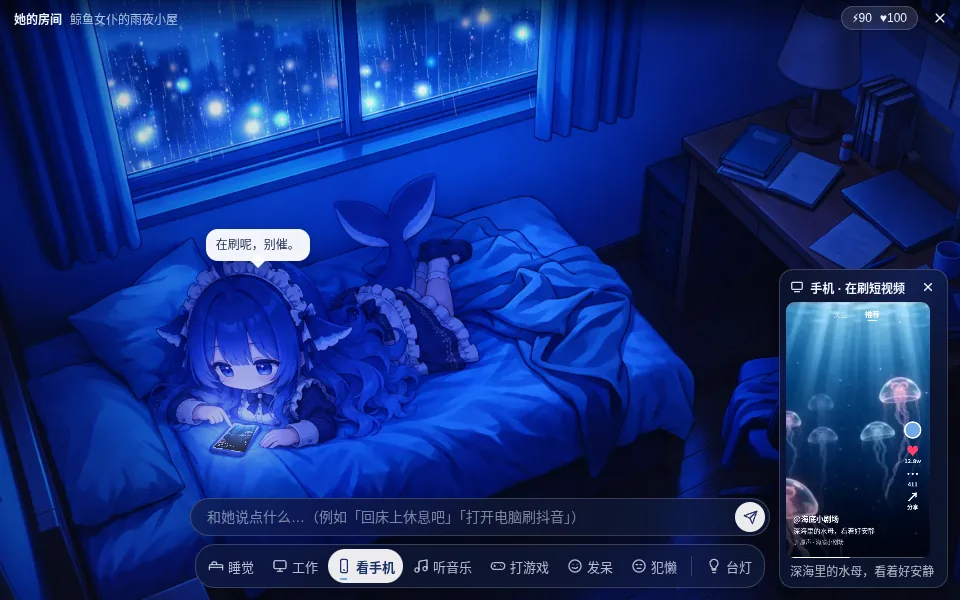
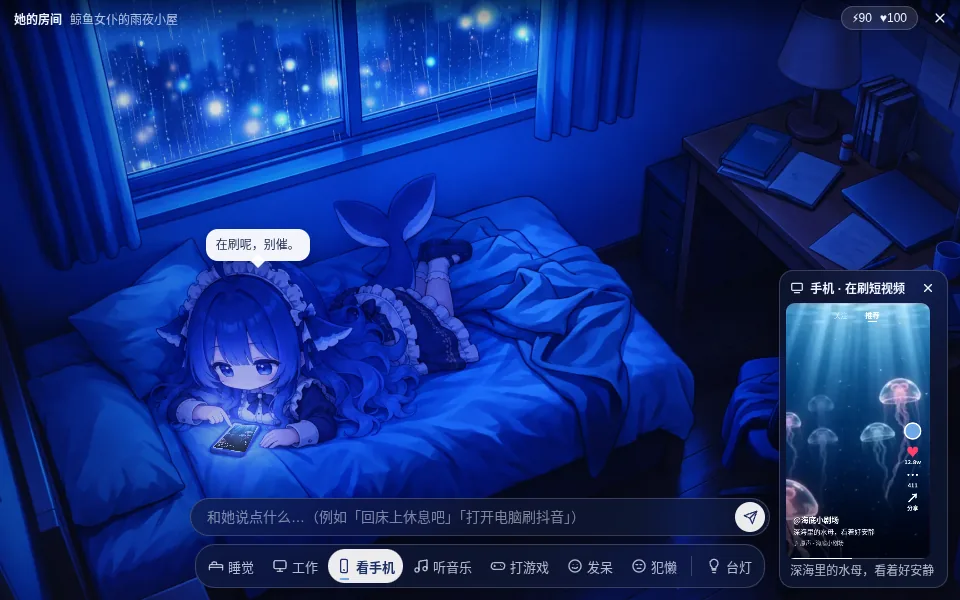
🎨 她的房间：蓝发不被暖光洗紫、打游戏头发重出、床上不留蓝色色块（T-11697）
独立复验发现工作、打游戏、起身开灯后色相超过自查表的 12° 门槛仍标符合；打游戏头发偏直。
warm.py 只保护她身上蓝色的部分，床上状态用人工椭圆 ∩ 变化遮罩，商店物料和一致性表重出。

diff --git a/games/her-room/art/post.py b/games/her-room/art/post.py
@@ -19,6 +19,9 @@ LAMP = (1300, 0, 1920, 700); FAR = (150, 380, 1250, 1080)
 # 每个状态允许变化的范围：床上的状态只改床和她，书桌的状态只改书桌、椅子和她；范围外逐像素取底版
 BED = (60, 230, 1400, 1080); DESK = (1130, 200, 1920, 1080)
 ROI = {'idle': BED, 'idle-lazy': BED, 'phone': BED, 'music': BED, 'sleep': BED, 'work': DESK, 'game': DESK, 'stand': DESK}
+# 暖光时要保护蓝色的范围。床上的状态她躺在蓝床单上，变化遮罩会把床单也算进去（留下蓝色色块），所以用人工标注的椭圆只框头发和身体
+# [(cx, cy, rx, ry)…]，世界坐标；书桌的状态背景不是蓝的，直接用变化遮罩
+HAIR = {'idle': [(800, 630, 200, 330)], 'idle-lazy': [(800, 640, 200, 330)], 'phone': [(470, 650, 170, 130), (720, 720, 230, 110)], 'music': [(560, 500, 210, 220)], 'sleep': [(530, 590, 230, 130)]}
 THRESH = 20; MIN_AREA = 700; GROW = 19; FEATHER = 13
 def raw(n): return f'raw/{n}.png' if os.path.exists(f'raw/{n}.png') else f'raw/{n}.webp'
 def load(n): return cv2.resize(cv2.imread(raw(n), cv2.IMREAD_COLOR), (W, H), interpolation=cv2.INTER_AREA)
@@ -41,6 +44,12 @@ def change_mask(im, base, roi):
     keep[WIN > 0] = 0
     x0, y0, x1, y1 = roi; box = np.zeros_like(keep); box[y0:y1, x0:x1] = 255; keep = cv2.bitwise_and(keep, box)
     return cv2.dilate(keep, cv2.getStructuringElement(cv2.MORPH_ELLIPSE, (GROW, GROW)))
+def subject_mask(state, hard):
+    if state not in HAIR: return cv2.GaussianBlur(hard, (0, 0), FEATHER).astype(np.float32) / 255
+    m = np.zeros((H, W), np.uint8)
+    for cx, cy, rx, ry in HAIR[state]: cv2.ellipse(m, (cx, cy), (rx, ry), 0, 0, 360, 255, -1)
+    # 和变化遮罩取交集：头顶旁边的蓝墙没被她动过，不算她
+    return cv2.GaussianBlur(cv2.bitwise_and(m, cv2.erode(hard, cv2.getStructuringElement(cv2.MORPH_ELLIPSE, (27, 27)))), (0, 0), 7).astype(np.float32) / 255
 def composite(im, base, roi):
     hard = change_mask(im, base, roi)
     a = cv2.GaussianBlur(hard, (0, 0), FEATHER).astype(np.float32)[..., None] / 255
@@ -58,7 +67,8 @@ if __name__ == '__main__':
             if not os.path.exists(raw(n)): print('missing', n); continue
             im = load(n); out, hard = composite(im, base[k], ROI[s]); ref = base[k]
             if k == 'lit':
-                out = warm(out, subject=cv2.GaussianBlur(hard, (0, 0), FEATHER).astype(np.float32) / 255); ref = warmed_base
+                sub = subject_mask(s, hard)
+                out = warm(out, subject=sub); ref = warmed_base
             cv2.imwrite(f'out/{n}.webp', out, [cv2.IMWRITE_WEBP_QUALITY, 88])
             ys, xs = np.where(hard > 0)
             report['mask'][n] = {'percent': round(float((hard > 0).mean() * 100), 1), 'bbox': [int(xs.min()), int(ys.min()), int(xs.max()), int(ys.max())] if len(xs) else None}

diff --git a/games/her-room/art/warm.py b/games/her-room/art/warm.py
@@ -1,13 +1,13 @@
 #!/usr/bin/env python3
 """开灯后整屋变暖：模型只把台灯附近画暖了，床一侧还是蓝月光。这里按到台灯的距离叠一层暖光（所有 lit 图用同一张光照图，所以状态之间一致）。
 是「加光」不是「换色」：蓝通道压一点、红绿按画面明度加上去，蓝头发、蓝床单仍然是蓝的，只是被暖光照着；窗玻璃留冷色，窗外的雨和光斑不受影响。
-post.py 对 lit 状态图、blink.py 对 lit 贴片调用 warm()。参数改这里。
+post.py 对 lit 状态图、blink.py 对 lit 贴片调用 warm()（她的软遮罩 / 1.0）。参数改这里。
 """
 import numpy as np, cv2
 W, H = 1920, 1080
 LAMP = (1566, 170)     # 台灯灯泡（世界坐标）
-REACH = 900.0          # 距离衰减的半径，越大暖光走得越远
-FAR = 0.42             # 房间最远处的受光量（漫反射，不是 0：整屋都变）
+REACH = 1000.0          # 距离衰减的半径，越大暖光走得越远
+FAR = 0.40             # 房间最远处的受光量（漫反射，不是 0：整屋都变）
 NEAR = 1.0             # 灯边的受光量
 GLASS = 0.04           # 窗玻璃的受光量
 PANES = [[[262, 0], [712, 0], [712, 252], [322, 312]], [[742, 0], [1064, 0], [1062, 192], [742, 242]]]
@@ -20,11 +20,12 @@ def light_map():
     g = cv2.GaussianBlur(g, (0, 0), 4).astype(np.float32) / 255
     return k * (1 - g) + GLASS * g
 LIGHT = light_map()
-SUBJECT = 0.5          # 她身上的受光量打折：蓝头发、女仆装要认得出（暖光照着，但不被洗成灰紫）
+SUBJECT = 0.88         # 她身上蓝色的部分（头发、裙子、尾巴）受光量打折，蓝发不被洗成灰紫；皮肤、围裙、遮罩里的桌面不是蓝的，照常受光，不留光环
 def warm(im, subject=None):
     """im: BGR uint8，世界坐标 1920×1080 → 同尺寸 uint8。subject: 她的软遮罩（0–1，HxW）或一个常数（只处理她身上的贴片时用 1）"""
     a = im.astype(np.float32); b, g, r = a[..., 0], a[..., 1], a[..., 2]
-    k = LIGHT if subject is None else LIGHT * (1 - SUBJECT * subject)
+    blue = np.clip((b - np.maximum(g, r)) / np.maximum(b, 1) * 2.0, 0, 1)
+    k = LIGHT if subject is None else LIGHT * (1 - SUBJECT * subject * blue)
     v = 0.6 * a.max(axis=2) + 0.4 * (0.0722 * b + 0.7152 * g + 0.2126 * r)  # 这一点的明度
-    out = np.dstack([b * (1 - 0.30 * k), g + v * 0.10 * k + 2 * k, r + v * 0.62 * k + 10 * k])
+    out = np.dstack([b * (1 - 0.30 * k), g + v * 0.06 * k + 2 * k, r + v * 0.66 * k + 12 * k])
     return np.clip(out, 0, 255).round().astype(np.uint8)

diff --git a/games/her-room/art/sheets.py b/games/her-room/art/sheets.py
@@ -60,3 +60,6 @@ for s in NAMES:
     for k in ('off', 'lit'):
         h, n = hue(O(f'dafeiyu-{s}-{k}').crop(CH[s])); res['hairHue'][f'{s}-{k}'] = {'hue': h, 'deltaFromSheet': round(h - ref, 1), 'pixels': n}
 json.dump(res, open('out/consistency.json', 'w'), indent=1, ensure_ascii=False); print(json.dumps(res['hairHue'], ensure_ascii=False)[:1500]); print('sheet', ref, 'maxStatic', max(max(v.values()) for v in res['staticDiffAfter'].values()))
+
+over = {k: v['deltaFromSheet'] for k, v in res['hairHue'].items() if abs(v['deltaFromSheet']) > 12}
+print('hue over 12°:', over or 'none')

diff --git a/games/her-room/art/CONSISTENCY.md b/games/her-room/art/CONSISTENCY.md
@@ -13,7 +13,7 @@
 | 听音乐 music | 符合：对应设定图闭眼 + 微笑 | 符合 | 符合：围裙、裙边花纹可见 | 符合；另外戴白色大耳机（这个状态的道具） | 符合：卷在身侧 | 符合 |
 | 睡觉 sleep | 符合：对应设定图闭眼 | 符合：散在枕头上 | 符合（大部分在被子里）：露出袖口、领口荷叶边 | 符合：睡觉也戴着 | 符合：从被子边露出 | 符合 |
 | 工作 work | 不适用：按设计背对镜头 | 符合：背影长卷发、呆毛（第 4 轮重出，旧图在 `raw/round2/`） | 符合：背后白围裙大蝴蝶结、深蓝裙 | 符合 | 符合：从椅子边垂下 | 符合 |
-| 打游戏 game | 符合：侧后方能看到半边脸和蓝眼 | 符合：长卷发 | 符合：袖口、围裙蝴蝶结、裙边 | 符合 | 符合：翘起，比工作时活泼 | 符合 |
+| 打游戏 game | 符合：侧后方能看到半边脸和蓝眼 | 符合：长卷发（第 4 轮重出，旧图在 `raw/round2/`） | 符合：袖口、围裙蝴蝶结、裙边 | 符合 | 符合：翘起，比工作时活泼 | 符合 |
 | 起身 stand | 不适用：按设计背对镜头 | 符合：长卷发、呆毛 | 符合：背后蝴蝶结、条纹裙摆、白袜、鞋 | 符合 | 符合：在裙后翘起 | 符合 |
 
 ## 2. 房间固定元素（对照 `preview/layout.jpg`，同一组红色参考线）
@@ -37,44 +37,45 @@
 
 ## 3. 数值
 
-静止区域（窗户 / 左墙 / 书架墙）和同灯光底版的平均像素差（0–255），方案 §11.4 的门槛是 < 4。最大值 1.59。lit 图和同样烘焙过整屋暖光的底版比。
+由 `post.py`、`sheets.py` 算出。静止区域（窗户 / 左墙 / 书架墙）和同灯光底版的平均像素差（0–255），方案 §11.4 的门槛是 < 4。最大值 3.52。lit 图和同样烘焙过整屋暖光的底版比。
 发色：角色框内蓝色且够饱和的像素的色相中位数，设定图 227.3°，门槛是差 ≤ 12°。框里也有蓝色床单，这个数只能发现整体换色，细节以上面的人工检查为准。
 
 | 图 | 合成前 | 合成后 | 色相（和设定图的差） |
 | --- | --- | --- | --- |
 | 发呆 · 关 | 4.28 / 3.18 / 2.58 | 0.0 / 0.0 / 0.0 | 225.9°（-1.4°） |
-| 发呆 · 开 | 6.27 / 2.69 / 4.7 | 0.05 / 0.0 / 0.0 | 238.6°（+11.3°） |
+| 发呆 · 开 | 6.27 / 2.69 / 4.7 | 0.02 / 0.0 / 0.0 | 235.8°（+8.5°） |
 | 犯懒 · 关 | 6.64 / 4.83 / 4.1 | 0.0 / 0.0 / 0.0 | 225.9°（-1.4°） |
-| 犯懒 · 开 | 5.41 / 4.29 / 4.0 | 0.0 / 0.0 / 0.0 | 238.6°（+11.3°） |
+| 犯懒 · 开 | 5.41 / 4.29 / 4.0 | 0.0 / 0.0 / 0.0 | 235.8°（+8.5°） |
 | 看手机 · 关 | 7.49 / 4.61 / 4.36 | 0.0 / 0.0 / 0.0 | 224.5°（-2.8°） |
-| 看手机 · 开 | 6.03 / 4.01 / 3.71 | 0.39 / 0.0 / 0.0 | 234.4°（+7.1°） |
+| 看手机 · 开 | 6.03 / 4.01 / 3.71 | 0.34 / 0.0 / 0.0 | 237.2°（+9.9°） |
 | 听音乐 · 关 | 5.6 / 2.95 / 2.93 | 0.17 / 0.0 / 0.0 | 224.5°（-2.8°） |
-| 听音乐 · 开 | 6.76 / 2.39 / 3.8 | 0.44 / 0.0 / 0.0 | 235.8°（+8.5°） |
+| 听音乐 · 开 | 6.76 / 2.39 / 3.8 | 0.38 / 0.0 / 0.0 | 241.4°（+14.1°） **超门槛** |
 | 睡觉 · 关 | 7.52 / 6.11 / 5.05 | 0.07 / 0.98 / 0.0 | 221.6°（-5.7°） |
-| 睡觉 · 开 | 5.94 / 5.46 / 4.16 | 0.33 / 0.4 / 0.0 | 227.3°（+0.0°） |
+| 睡觉 · 开 | 5.94 / 5.46 / 4.16 | 0.33 / 0.19 / 0.0 | 238.6°（+11.3°） |
 | 工作 · 关 | 7.5 / 5.76 / 5.76 | 0.0 / 0.0 / 0.72 | 230.1°（+2.8°） |
-| 工作 · 开 | 6.22 / 5.23 / 5.35 | 0.0 / 0.0 / 0.92 | 248.5°（+21.2°） |
-| 打游戏 · 关 | 7.56 / 6.68 / 6.39 | 0.0 / 0.0 / 1.59 | 228.7°（+1.4°） |
-| 打游戏 · 开 | 6.57 / 6.09 / 6.71 | 0.0 / 0.0 / 0.93 | 244.2°（+16.9°） |
+| 工作 · 开 | 6.22 / 5.23 / 5.35 | 0.0 / 0.0 / 0.77 | 237.2°（+9.9°） |
+| 打游戏 · 关 | 9.7 / 8.32 / 7.27 | 0.0 / 0.0 / 2.62 | 228.7°（+1.4°） |
+| 打游戏 · 开 | 6.87 / 7.29 / 10.69 | 0.0 / 0.0 / 3.52 | 234.4°（+7.1°） |
 | 起身 · 关 | 4.98 / 4.44 / 4.32 | 0.0 / 0.0 / 0.0 | 228.7°（+1.4°） |
-| 起身 · 开 | 5.91 / 6.22 / 4.73 | 0.0 / 0.0 / 0.0 | 247.1°（+19.8°） |
+| 起身 · 开 | 5.91 / 6.22 / 4.73 | 0.0 / 0.0 / 0.0 | 235.8°（+8.5°） |
 
-台灯关 → 开（台灯区 = 书桌、台灯、书架；床区 = 床和床前地板）。R−B 越大越暖，床区升高就是「整屋变暖」：
+台灯关 → 开（世界坐标：台灯区 x1300–1920, y0–700；床区 x150–1250, y380–1080）。R−B 越大越暖：
 
 | 状态 | 台灯区亮度 | 台灯区暖色 R−B | 床区亮度 | 床区暖色 R−B |
 | --- | --- | --- | --- | --- |
-| 底版 | 45.0 → 98.8 | -70.0 → 117.7 | 75.4 → 86.0 | -143.0 → -55.7 |
-| 发呆 | 45.1 → 98.9 | -70.1 → 117.6 | 74.5 → 84.3 | -126.5 → -50.2 |
-| 犯懒 | 45.1 → 98.7 | -70.1 → 117.3 | 73.9 → 82.3 | -128.4 → -53.1 |
-| 看手机 | 45.1 → 98.9 | -70.1 → 117.4 | 71.2 → 80.5 | -130.6 → -56.7 |
-| 听音乐 | 45.1 → 98.8 | -70.1 → 117.4 | 72.6 → 81.3 | -123.3 → -47.6 |
-| 睡觉 | 45.1 → 99.0 | -70.2 → 117.4 | 76.1 → 83.5 | -149.5 → -86.0 |
-| 工作 | 57.2 → 100.5 | -90.2 → 79.5 | 75.5 → 86.1 | -143.2 → -56.0 |
-| 打游戏 | 59.5 → 102.0 | -95.3 → 76.6 | 75.5 → 86.1 | -143.2 → -56.1 |
-| 起身 | 49.1 → 101.4 | -77.8 → 109.7 | 76.2 → 86.7 | -144.3 → -56.5 |
+| 底版 | 45.0 → 98.4 | -70.0 → 121.0 | 75.4 → 86.6 | -143.0 → -50.0 |
+| 发呆 | 45.1 → 98.9 | -70.1 → 122.0 | 74.5 → 84.9 | -126.5 → -44.1 |
+| 犯懒 | 45.1 → 98.4 | -70.1 → 120.9 | 73.9 → 82.9 | -128.4 → -47.8 |
+| 看手机 | 45.1 → 98.7 | -70.1 → 121.4 | 71.2 → 81.7 | -130.6 → -46.1 |
+| 听音乐 | 45.1 → 98.8 | -70.1 → 121.7 | 72.6 → 83.2 | -123.3 → -32.8 |
+| 睡觉 | 45.1 → 99.0 | -70.2 → 122.0 | 76.1 → 87.0 | -149.5 → -57.0 |
+| 工作 | 57.2 → 100.0 | -90.2 → 81.5 | 75.5 → 86.7 | -143.2 → -50.3 |
+| 打游戏 | 60.2 → 100.5 | -99.4 → 70.9 | 75.6 → 86.7 | -143.9 → -51.5 |
+| 起身 | 49.1 → 101.0 | -77.8 → 112.2 | 76.2 → 87.2 | -144.3 → -51.5 |
 
 ## 4. 已知不符或没做到的
 
+- 听音乐 · 开的色相差 +14.1°，超过 12° 门槛。统计框里大半是变暖的床单和裙子，放大看头发仍是蓝色；没有再为这个数调暖光。
+- 床区开灯后 R−B 明显升高但仍为负：床单本身是蓝的，暖光叠上去是蓝紫色，不是暖黄。书桌一侧、墙和地板是真正的暖橙，往窗边递减，和参考录屏开灯帧的走向一致，而且比它更暖。
 - 开灯版和关灯版是两次编辑的结果，没有做到逐像素相同：角色范围内线稿的整体位移（ECC）< 0.3 px，线稿相关系数 0.88–0.97。
-- 床区开灯后仍偏蓝紫（R−B 仍为负），是暖光叠在蓝床单上的颜色，和参考录屏开灯帧一致：书桌一侧最暖，往床那边递减；她身上的受光量打了 5 折，保住蓝发。
-- 打游戏状态的底图没有重出，头发卷度本来就和设定图一致。
+- 打游戏重出头发后，书架墙静止差到 3.52（仍低于 4）。

diff --git a/games/her-room/art/README.md b/games/her-room/art/README.md
@@ -28,7 +28,7 @@ node ../../../tools/game-pack.js ../pack
 | 路径 | 内容 |
 | --- | --- |
 | `prompts.json` | 全部提示词：`character`（固定角色描述）、`style`、`room`，每张图的 `prompt` / `refs` / `size`；`round` 是第几轮出的 |
-| `raw/` | 模型原图（2048×1152，设定图 2048×2048），无损 WebP。`raw/round1/` 是探针第 1 轮被替换下来的图，`raw/round2/` 是工作状态头发卷度不足、被替换下来的图；`raw/clips/` 是短视频原片，`raw/cover-*` 是封面原图 |
+| `raw/` | 模型原图（2048×1152，设定图 2048×2048），无损 WebP。`raw/round1/` 是探针第 1 轮被替换下来的图，`raw/round2/` 是工作、打游戏状态头发卷度不足、被替换下来的图；`raw/clips/` 是短视频原片，`raw/cover-*` 是封面原图 |
 | `ref/` | 参考：录屏截帧、角色裁图、像素桌宠的大肥鱼 |
 | `manifest.src.json` | manifest 手写的部分；屏幕四角、眨眼贴片、光斑位置由 `build_pack.py` 填入 |
 | `screens.json`、`blink-eyes.json` | 人工标注：屏幕四角、眼睛范围 |
@@ -48,5 +48,5 @@ node ../../../tools/game-pack.js ../pack
 
 - 所有状态的静止部分逐像素取底版（`post.py`）：差异大的区域（她、被她动过的东西）留状态图，窗户内和 ROI 外一律取底版，交叉淡化时只有她在变。探针时窗户区差 7.5/255，现在 ≤ 0.42，全部静止区域 ≤ 2.92。
 - 眨眼贴片：编辑图平移对齐到状态图，整体明暗对齐，四周羽化 6 px。off / lit 共用一个框，引擎按台灯亮度混合。
-- 整屋变暖（`warm.py`）：模型只把台灯附近画暖了，合成后给所有 lit 图和 lit 贴片叠同一张按距离衰减的暖光图；窗玻璃留冷色，她身上的受光量打 5 折，蓝发和女仆装不被洗掉。
+- 整屋变暖（`warm.py`）：模型只把台灯附近画暖了，合成后给所有 lit 图和 lit 贴片叠同一张按距离衰减的暖光图；窗玻璃留冷色，她身上蓝色的部分（头发、裙子、尾巴）受光量打折，蓝发不被洗掉，皮肤和围裙照常受光；床上状态的范围是 `post.py` 里人工标注的椭圆和变化遮罩的交集。
 - 屏幕四角避开手和头：engine 的屏幕网格盖在插画上，没有前景遮挡层，所以四边形收到不盖住她的位置。
